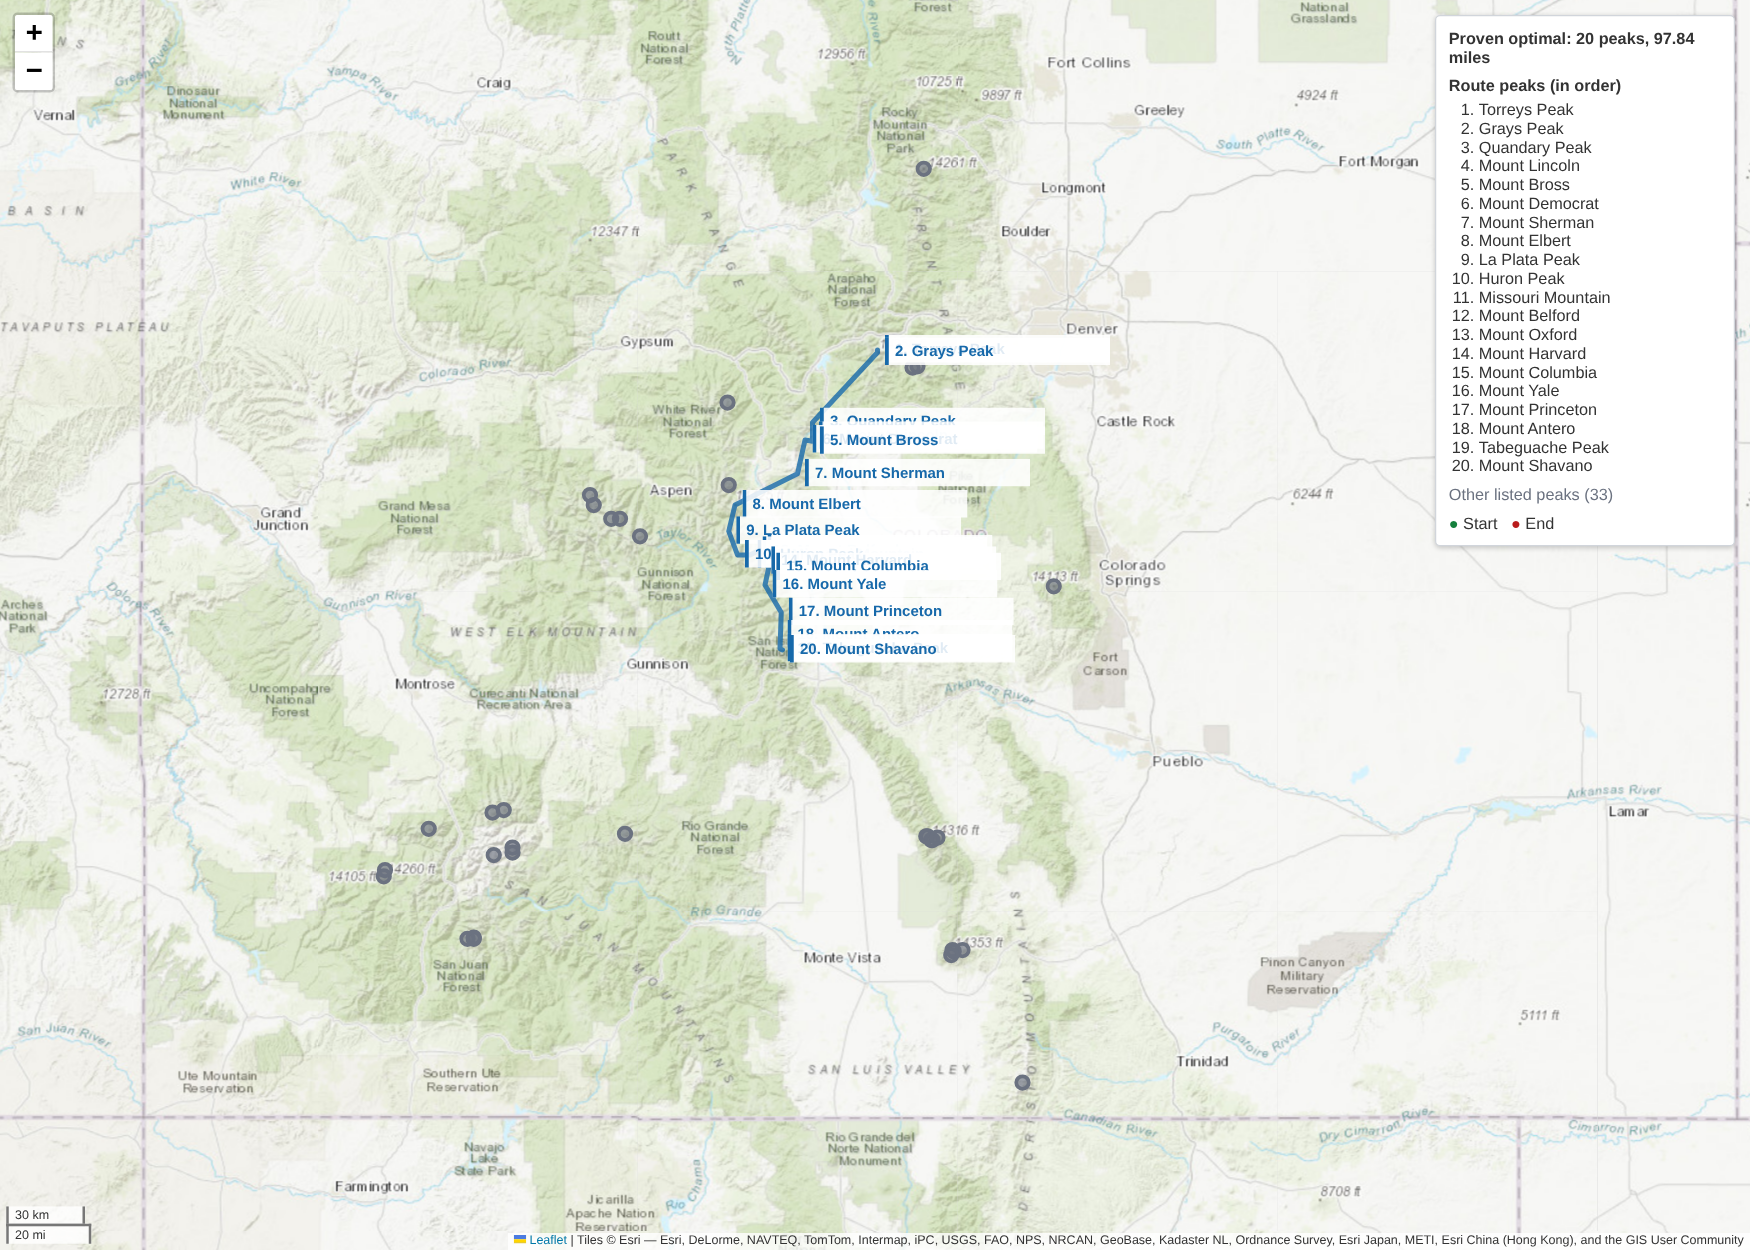
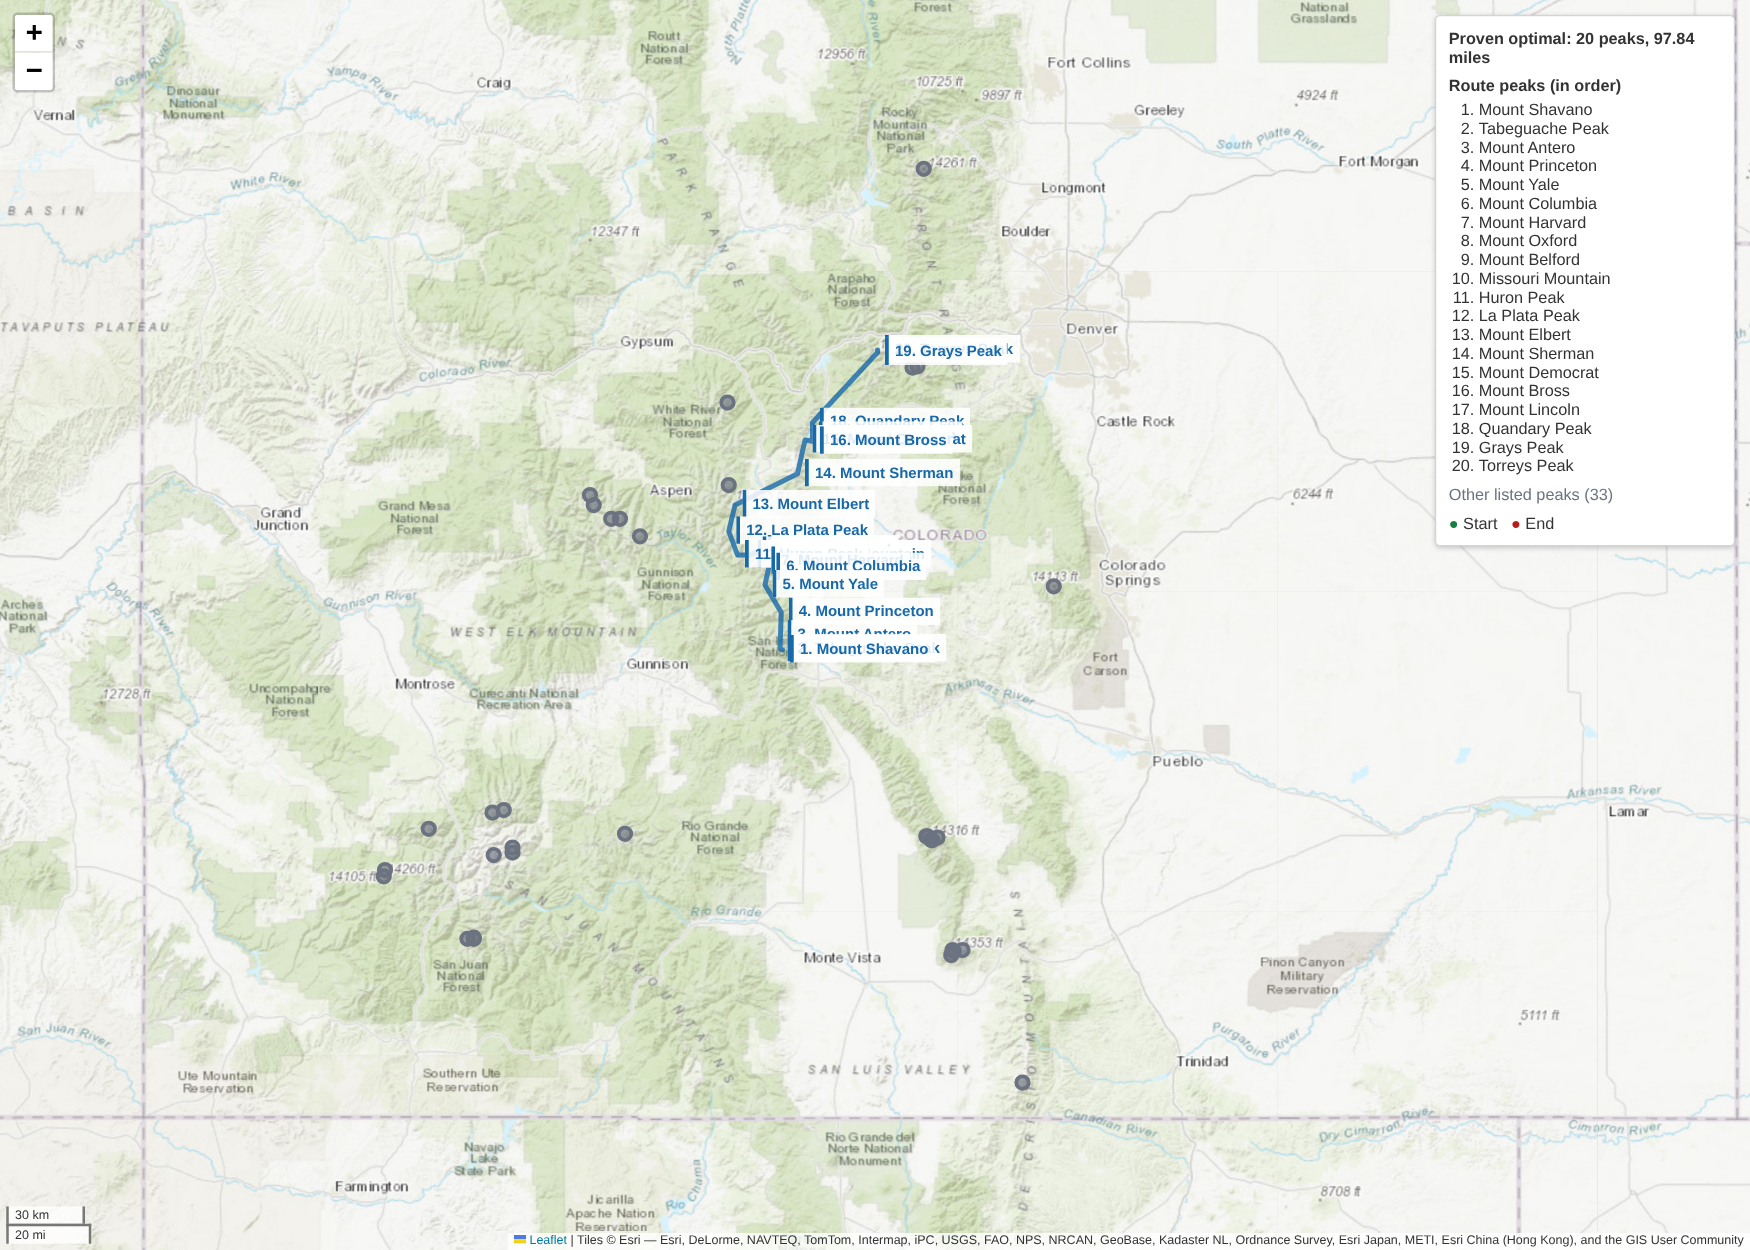
fix: size peak labels to their content

Changed region(s): [[0.432, 0.2496, 0.648, 0.5304], [0.8331, 0.0624, 0.9257, 0.3744]]

diff --git a/peakroutefinder/visualization.py b/peakroutefinder/visualization.py
@@ -86,11 +86,12 @@ def build_map(peaks: Sequence[Peak], route: RouteResult) -> folium.Map:
             continue
 
         name_icon = folium.DivIcon(
-            icon_size=(180, 24),
+            icon_size=None,
             icon_anchor=(-6, 12),
             class_name="peak-name-label",
             html=(
-                f'<div style="white-space:nowrap;background:#ffffffde;'
+                f'<div style="display:inline-block;width:max-content;'
+                f'white-space:nowrap;background:#ffffffde;'
                 f"color:{ROUTE_COLOR};border-left:3px solid {ROUTE_COLOR};"
                 f'padding:2px 5px;font:bold 12px/18px sans-serif;">'
                 f"{position}. {escape(peak.name)}</div>"
